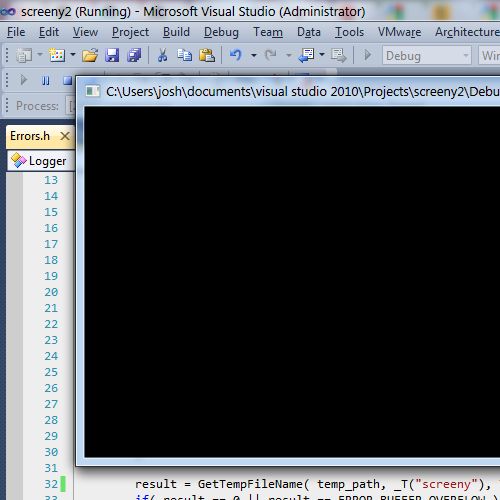
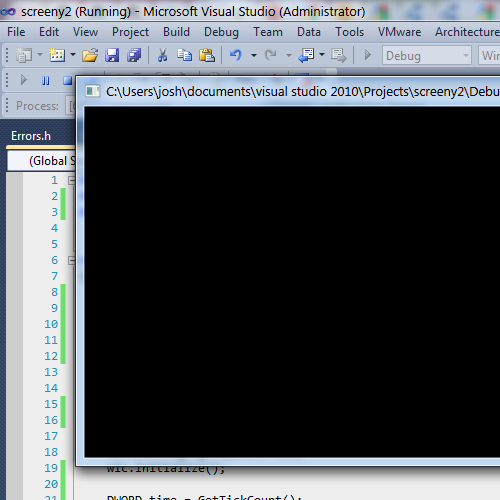
Tweaked Logger::printf() [Minor]
Added a minor debugging measure - Logger::printf() prints to the console
in addition to the log file so I don't have to constantly look at the
log file when debugging.

diff --git a/Main.cpp b/Main.cpp
@@ -12,7 +12,7 @@ void main()
 	result = CoInitializeEx( NULL, COINIT_SPEED_OVER_MEMORY );
 	if( !SUCCEEDED(result) )
 	{
-		printf("CoInitializeEx(); FATAL ERROR: %x\r\n", result );
+		logger.printf( _T("CoInitializeEx(); FATAL ERROR: %x\r\n"), result );
 	}
 
 	WindowsImagingComponent wic;
@@ -22,7 +22,7 @@ void main()
 	wic.CaptureScreenRegion( 0, 0, 500, 500 );
 	time = GetTickCount() - time;
 
-	printf("Capture Time: %d\r\n", time );
+	logger.printf( _T("Capture Time: %d\r\n"), time );
 
 	
 

diff --git a/Errors.cpp b/Errors.cpp
@@ -32,6 +32,9 @@ bool Logger::printf( const TCHAR *msg, ... )
 	va_start( arglist, msg );
 	_vstprintf( formatted_str, msg, arglist );
 
+	//temporary debugging measure
+	WriteConsole( GetStdHandle(STD_OUTPUT_HANDLE), formatted_str, _tcslen(formatted_str), &dwRetLen, NULL );
+
 	if( !WriteFile( this->logfile, formatted_str, _tcslen(formatted_str) * sizeof(TCHAR), &dwRetLen, NULL ) )
 	{
 		TCHAR errstr[256];
